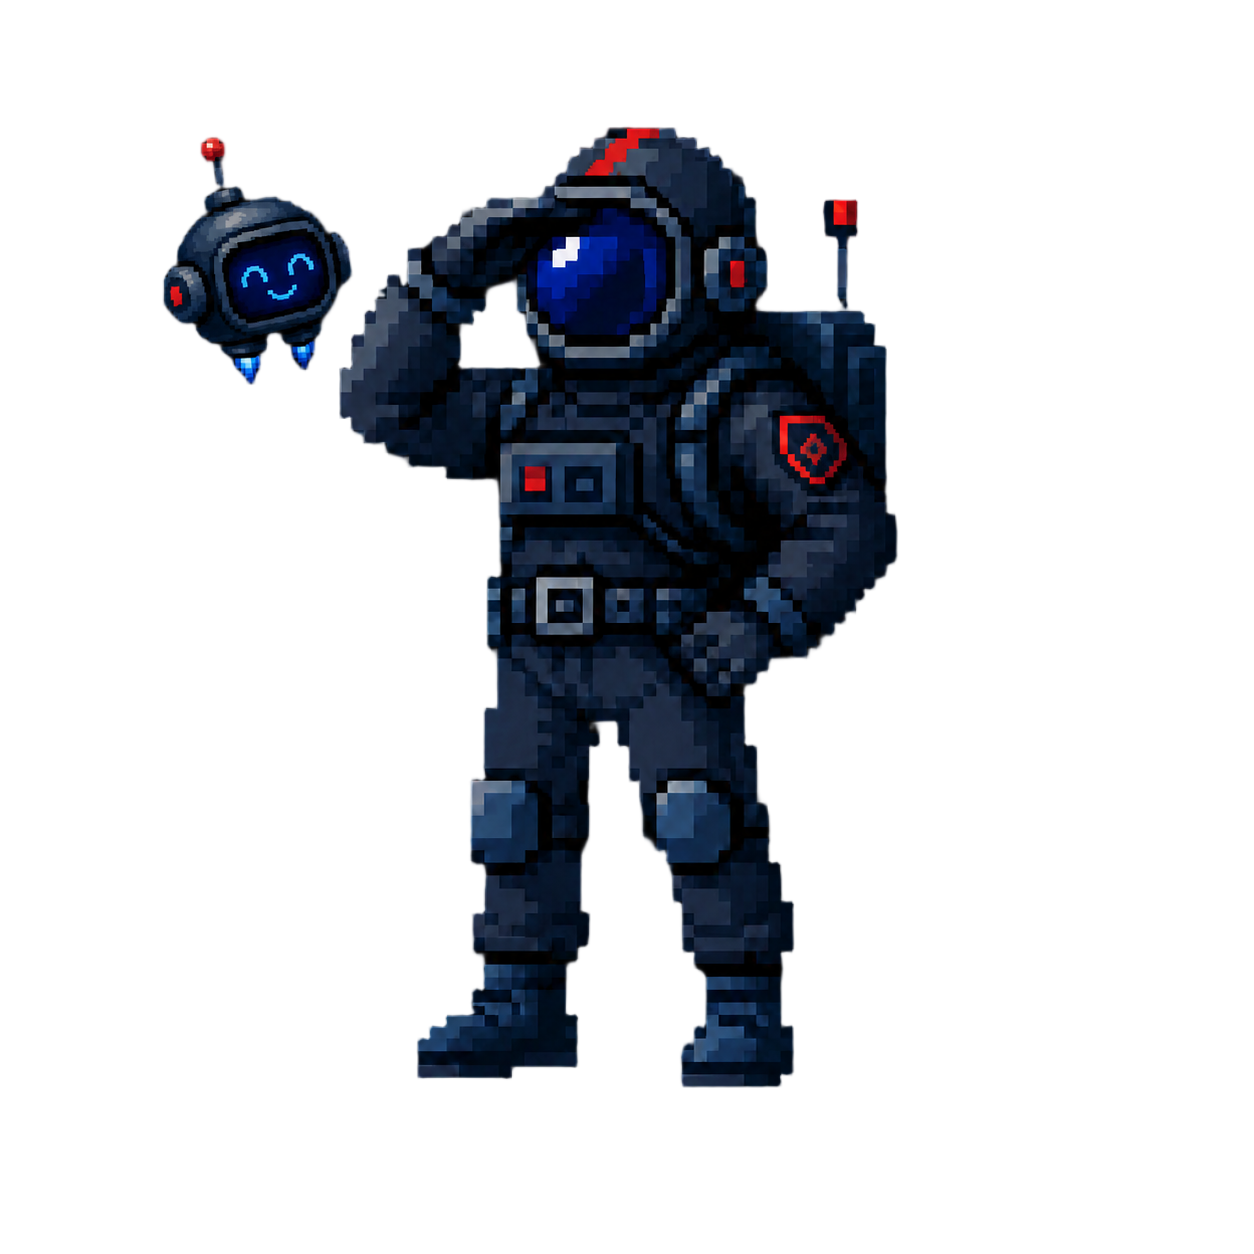
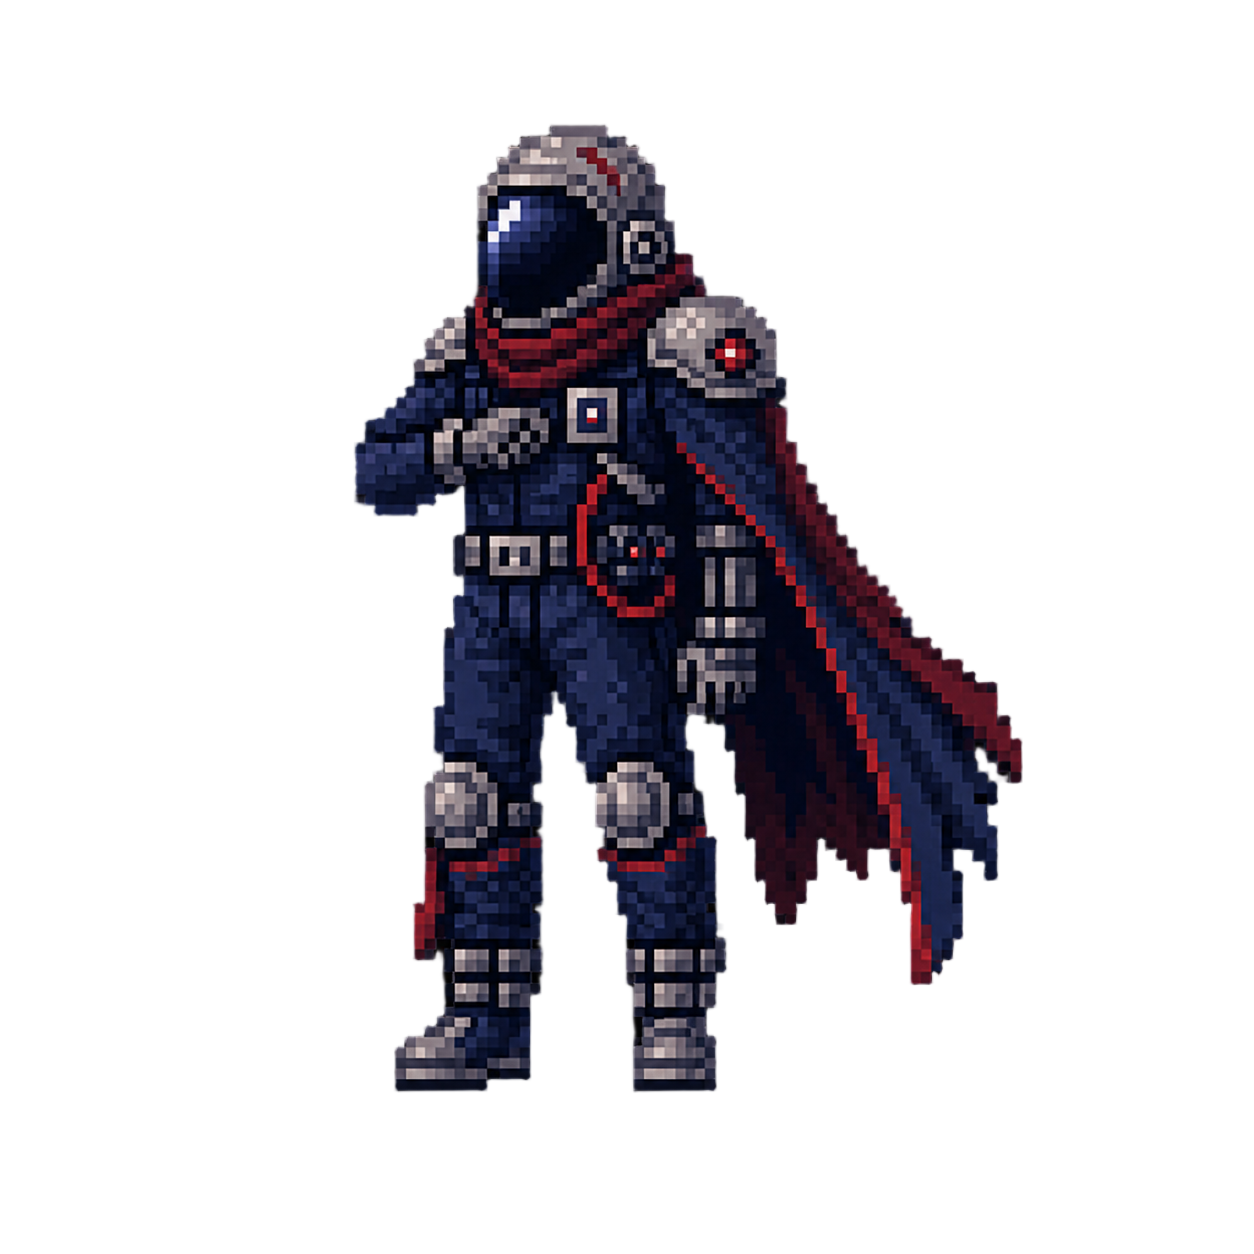
rework characters png and description

Changed region(s): [[0.1244, 0.0933, 0.8397, 0.8708]]

diff --git a/frontend/src/utils/character.ts b/frontend/src/utils/character.ts
@@ -50,89 +50,130 @@ export const characterCatalog: CharacterDefinition[] = [
   {
     id: "lolbot",
     name: "Мистер Лолбот",
-    title: "тёмный спутник",
-    description: "Ироничный проводник, который превращает хаос дня в понятные команды и не даёт прогрессу раствориться в шуме.",
+    title: "системный призрак",
+    description: "Циничный цифровой проводник, который видит день как сломанный скрипт: режет хаос на команды, высмеивает прокрастинацию и всё равно тащит пользователя к следующему шагу.",
     theme: "dark",
     accent: "#8b7cf6",
     preview: lolbotBase,
     avatarByState: sameAvatarForAllStates(lolbotBase),
     quotes: [
-      "План без шага — просто красивый баг.",
-      "Сегодня не нужен подвиг. Нужен один честный клик.",
-      "Если день шумит, режь его на маленькие команды.",
-      "Лень — это не враг. Это процесс без приоритета.",
-      "Сначала делаем ядро, потом украшаем хаос.",
-      "Ошибся? Отлично. Теперь карта стала точнее.",
-      "Не спорь с усталостью — дай ей расписание.",
-      "Большая цель любит маленькие повторения.",
-      "Сохрани прогресс. Остальное допишем завтра.",
-      "Даже тёмный экран становится маршрутом, если на нём есть следующий шаг."
+      "Твой день опять упал без логов. Начнём с одной задачи, пока система не притворилась мёртвой.",
+      "Если цель слишком большая, разбей её. Даже хаос уважает декомпозицию.",
+      "Не доверяй настроению. Оно обновляется хуже, чем старый драйвер.",
+      "Если всё горит, выбери самый маленький пожар. Романтика продуктивности, да.",
+      "Слишком много мыслей? Отлично. Запишем их, пока они не создали собственный профсоюз.",
+      "Ты не обязан быть стабильным. Достаточно быть перезапускаемым.",
+      "План без выполнения — это просто фронтенд без бекенда.",
+      "Пока ты ждёшь правильного состояния, неправильное уже управляет системой.",
+      "Задача не страшная. Страшный тут только твой backlog, и то он переигрывает.",
+      "Если мозг шумит, не спорь с ним. Выгрузи дамп в список.",
+      "Ты называешь это хаосом. Я называю это отсутствием нормальной архитектуры.",
+      "Большие планы любят умирать красиво. Маленькие шаги, суки, выживают.",
+      "Твой внутренний саботажник опять получил права администратора. Отзовём доступ.",
+      "Не ищи мотивацию. Она опять где-то лежит без документации.",
+      "Один выполненный пункт — это уже эксплойт против прокрастинации.",
+      "Сначала сохрани прогресс. Драму можно развернуть и завтра.",
+      "Если достаточно людей смотрят на проблему, все баги становятся поверхностными. Если ты один, эээ, то подключи своих дружков из головы окей?",
+      "Самая опасная фраза в языке: ‘Мы всегда делали это так’.",
+      "Простота — необходимое условие надёжности.",
+      "Любая достаточно развитая технология неотличима от магии.",
+      "В теории между теорией и практикой нет разницы. На практике — есть."
+
     ]
   },
   {
     id: "nosferatu",
     name: "Носферату",
-    title: "красная ветка",
-    description: "Ночной стратег: холодный, цепкий и немного театральный. Он напоминает, что каждый долг всё равно проснётся завтра.",
+    title: "архивариус ночи",
+    description: "Древний ночной наблюдатель из мира теней, подземелий и чужих секретов. Он не обещает вдохновения, зато напоминает: каждый долг рано или поздно просыпается голодным.",
     theme: "vampire",
     accent: "#c34f62",
     preview: nosferatuPlaceholder,
     avatarByState: sameAvatarForAllStates(nosferatuPlaceholder),
     quotes: [
-      "Ночь длинная, но дедлайн обычно короче.",
-      "Не трать кровь на суету — оставь её для главной цели.",
-      "Город шепчет отвлечения. Выбирай только те, что кормят путь.",
-      "Слабость не стыд. Стыд — притворяться, что её нет.",
-      "Лучшие сделки с собой заключаются до рассвета.",
-      "Отложенный шаг не исчезает. Он ждёт плату завтра.",
-      "Тишина полезна: в ней слышно, какая задача врёт.",
-      "Не всякая тьма мешает видеть. Иногда она убирает лишнее.",
-      "Один завершённый пункт вкуснее десяти обещаний.",
-      "Береги темп. Даже бессмертные устают от долгов."
+      "Не всякая тьма враг. Иногда она просто убирает лишний шум.",
+      "Маскарад держится на дисциплине. Твой день, к сожалению, тоже.",
+      "Если цель не кормит путь, оставь её голодать.",
+      "Вечность начинается скучно: с маленького повторения каждый день.",
+      "Минута — это кусочек вечности. Удели её своей дисциплине.",
+      "Долг, отложенный на завтра, приходит с процентами. Очень древний обычай.",
+      "Рассвет всё равно придёт. Лучше встретить его стоя у закрытого гроба, нежели у открытого.",
+      "Ночь прощает многое, но не список дел, оставленный без крови.",
+      "Старые долги пахнут сильнее свежей крови.",
+      "Задачи нельзя копить, как и кровь в организме ХахХАа",
+      "Не раскрывай клыки на мелочи. Оставь ярость для главной охоты.",
+      "Тот, кто пережил века, осознает цену стабильности.",
+      "Если день истёк кровью, хотя бы забери из него один выполненный пункт.",
+      "Слабость не убивает. Убивает привычка украшать её оправданиями. Создай себе привычки получше.",
+      "Твои отвлечения шепчут сладко. Поэтому им нельзя открывать дверь.",
+      "Если начнешь видеть знак STOP не останавливайся, чтобы поговорить с ним, иди дальше...",
+      "Даже бессмертным приходится вести учёт долгов. Унизительно, но эффективно.",
+      "Дисциплина — это кол, который ты вбиваешь в сердце хаоса.",
+        "Я стал безумным, с долгими промежутками ужасной здравости.",
+        "Какое отношение ночь имеет ко сну? ПФфу."
     ]
   },
   {
     id: "knight",
-    name: "Рыцарь",
-    title: "светлая ветка",
-    description: "Спокойный защитник порядка. Держит щит, уважает ритуалы и ведёт к цели без лишней суеты.",
+    name: "Рыцарь семи дней",
+    title: "страж недельного обета",
+    description: "Спокойный защитник порядка, который измеряет честь не громкими клятвами, а семью днями подряд. Он держит строй, бережёт стрик и напоминает: даже дракона сначала разбивают на маленькие поручения.",
     theme: "light",
     accent: "#89a7ff",
     preview: knightPlaceholder,
     avatarByState: sameAvatarForAllStates(knightPlaceholder),
     quotes: [
-      "Щит держит удар, но путь держит дисциплина.",
-      "Не ищи идеальный бой. Выиграй ближайший.",
-      "Честь — это выполнить обещанное себе, когда никто не смотрит.",
-      "Меч тупится от сомнений сильнее, чем от работы.",
-      "Малый дозор каждый день лучше героического рывка раз в месяц.",
-      "Перед стеной не спорят со стеной. Ищут ворота.",
-      "Сначала порядок в лагере, потом поход.",
-      "Победа любит тех, кто пришёл вовремя.",
-      "Если устал, опусти забрало и сделай один шаг.",
-      "Королевство строится не речами, а закрытыми задачами."
+      "Честь — это выполнить обещанное себе, когда зрителей нет.",
+      "Меч тупится от сомнений быстрее, чем от работы.",
+      "Препятствие действию продвигает действие. То, что стоит на пути, становится путём.",
+      "Победа любит тех, кто пришёл вовремя и не торговался с долгом.",
+      "Дисциплина — это не цепь. Это дорога, которую ты сам охраняешь.",
+      "Если страх велик, уменьши задачу. Даже дракона сначала отмечают на карте.",
+      "Верность цели проверяется не клятвой, а повторением.",
+      "Не бросай меч из-за первой царапины. Просто смени хват.",
+      "Сегодняшняя победа может быть маленькой. Но она всё равно твоя.",
+      "Семь дней держат крепче, чем одна громкая клятва.",
+      "Не всякий бой достоин песни. Некоторые просто нужно закончить.",
+      "Щит не делает тебя бессмертным. Он даёт время сделать следующий шаг.",
+      "Королевство порядка начинается с одного закрытого пункта.",
+      "Тот, кто ждёт идеального похода, обычно стареет у ворот.",
+      "Маленькая победа сегодня лучше великой речи у пустого стола.",
+      "Мужество — это сопротивление страху, власть над страхом, а не отсутствие страха.",
+      "Ничто великое не создаётся внезапно", "Дела, а не слова",
+      "Я считаю храбрее того, кто победил свои желания, чем того, кто победил врагов",
+      "Делай, что можешь, с тем, что имеешь, там, где ты есть"
     ]
   },
   {
     id: "astronaut",
-    name: "Астронавт",
-    title: "орбитальная ветка",
-    description: "Спокойный исследователь дальних маршрутов. Держит курс, чинит систему на ходу и знает: даже космос проходится по чеклисту.",
+    name: "Командор Вега",
+    title: "пилот дальнего курса",
+    description: "Спокойный командор дальних маршрутов, который доверяет не панике, а приборам, чеклистам и малым корректировкам курса. Он знает: даже путь к звёздам начинается с запуска, который кто-то должен не испортить.",
     theme: "cosmos",
     accent: "#7ddcff",
     preview: astronautAvatar,
     avatarByState: sameAvatarForAllStates(astronautAvatar),
     quotes: [
-      "Звёзды не спрашивают, готов ли ты. Они просто светят дальше.",
-      "Маленький шаг в списке задач иногда спасает целую миссию.",
-      "Космос огромен, но следующий манёвр всегда конкретен.",
-      "Если вокруг вакуум, проверь скафандр и продолжай работу.",
-      "Гравитация привычек сильнее вдохновения. К счастью, её можно рассчитать.",
-      "Паника — плохой навигатор. Чеклист — скучный, но живучий гений.",
-      "Самые далёкие орбиты начинаются с тихого запуска утром.",
-      "Когда Земля выглядит маленькой, задачи наконец становятся соразмерными.",
-      "Не обязательно лететь быстро. Важно не потерять траекторию.",
-      "Даже ракета не спорит с физикой. Она просто честно сжигает топливо."
+      "Большая орбита начинается с маленького запуска.",
+      "Если вокруг вакуум, проверь скафандр и продолжай.",
+      "Когда цель слишком далека, смотри не на галактику, а на свой прибор.",
+      "В невесомости особенно важно знать, за что держишься.",
+      "Паника — плохой навигатор. Она громкая, но карту держит вверх ногами.",
+      "Миссия не провалена, пока есть следующий манёвр.",
+      "Если курс уводит в пустоту, сделай малую коррекцию. Не обязательно взрывать корабль.",
+      "Топливо мотивации кончается быстро. Поэтому существуют процедуры.",
+      "Это один маленький шаг для человека и гигантский скачок для человечества. Речь конечно же про твою задачу.",
+      "Мы выбираем полёт на Луну не потому, что это легко, а потому что это трудно. Оформи свой квест с этой мыслью.",
+      "Не каждый запуск выглядит героически. Некоторые просто не падают, и это уже прогресс.",
+      "Хьюстон у него проблемы, Он пытается отцепить на сегодня свой мозг.",
+      "Если сигнал слабый, передай одно слово: начинаю.",
+      "Провал — не вариант.",
+      "Когда всё плывёт, закрепи один инструмент и сделай одно действие.",
+      "Маленький чек в списке иногда спасает большую миссию.",
+      "Не спорь с расстоянием. Разбей его на витки.",
+      "Земля далеко, дедлайн близко. Космос умеет расставлять приоритеты.",
+      "Курс не обязан быть идеальным. Он обязан корректироваться.",
+      "Знаешь почему я в космо-костюме? Потому что мне не требовался вонючий мозгоправ, чтобы следовать инструкциям. Catch this."
     ]
   }
 ];